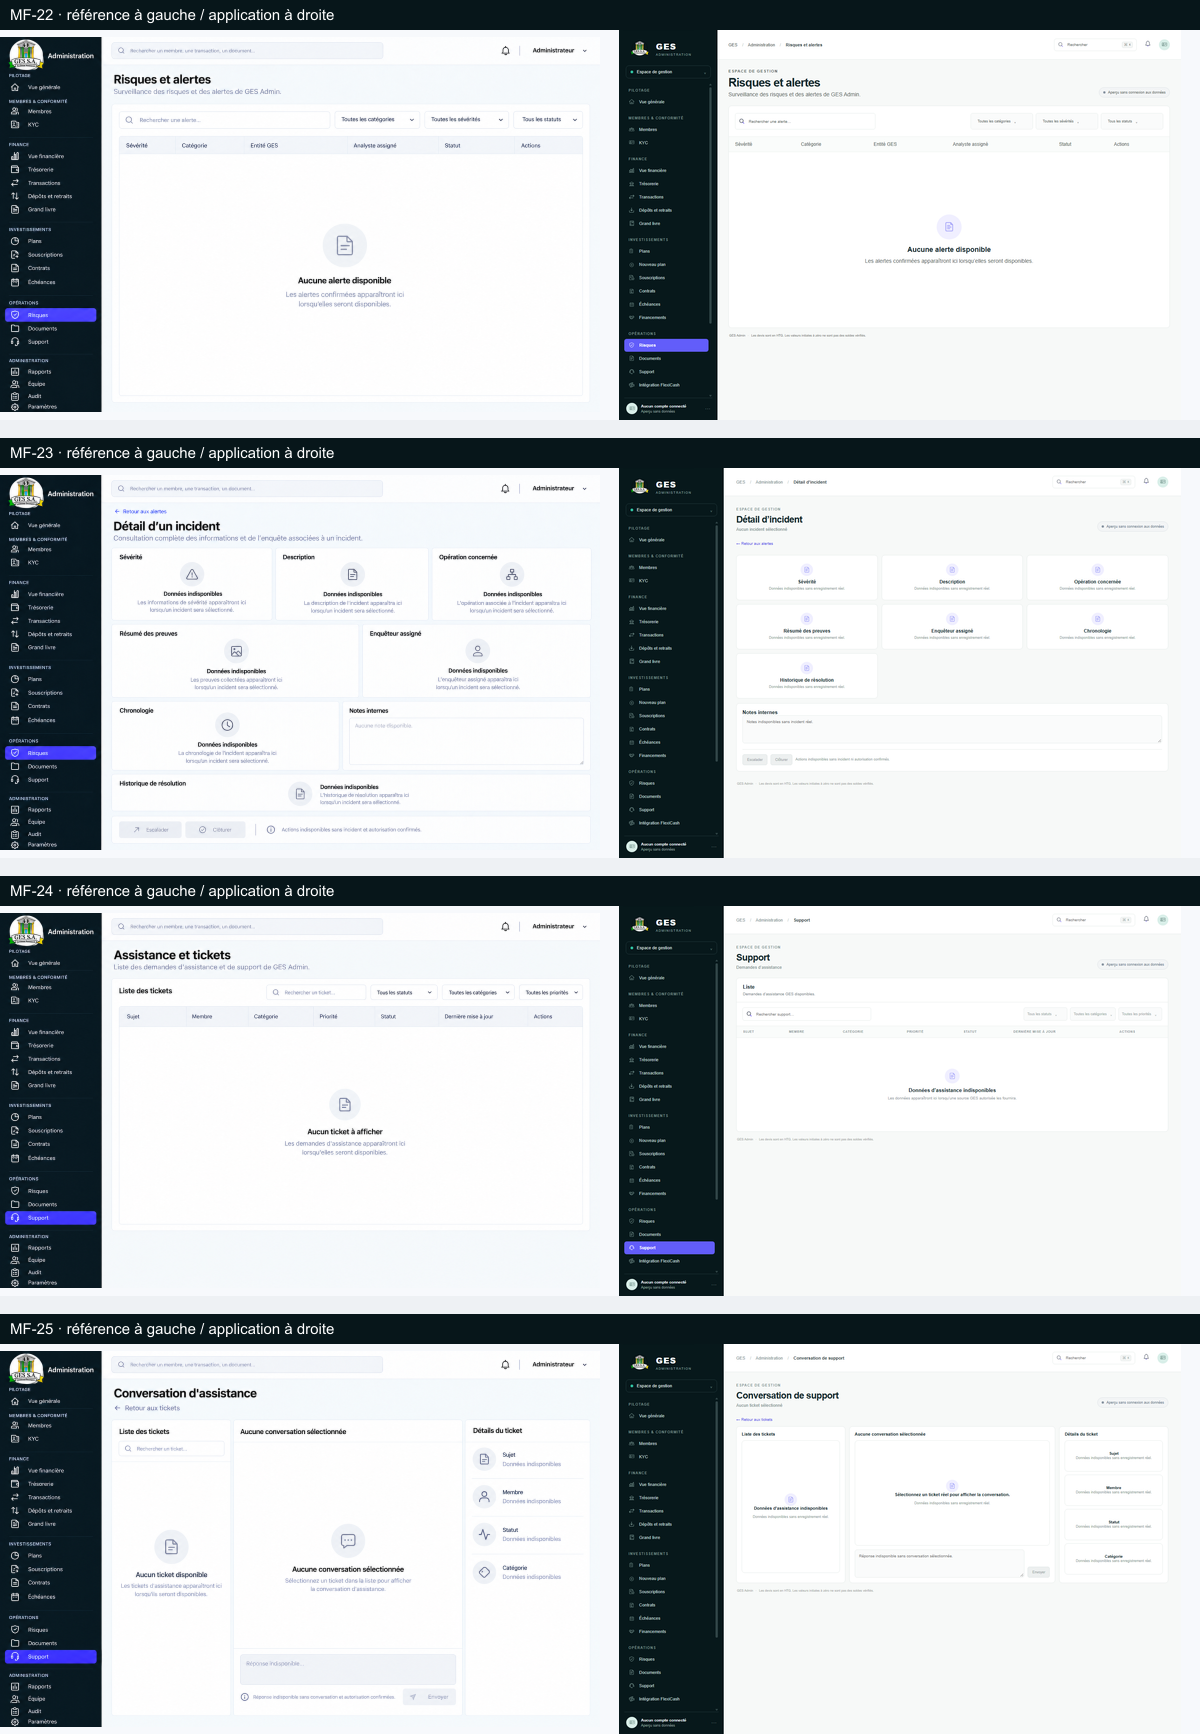
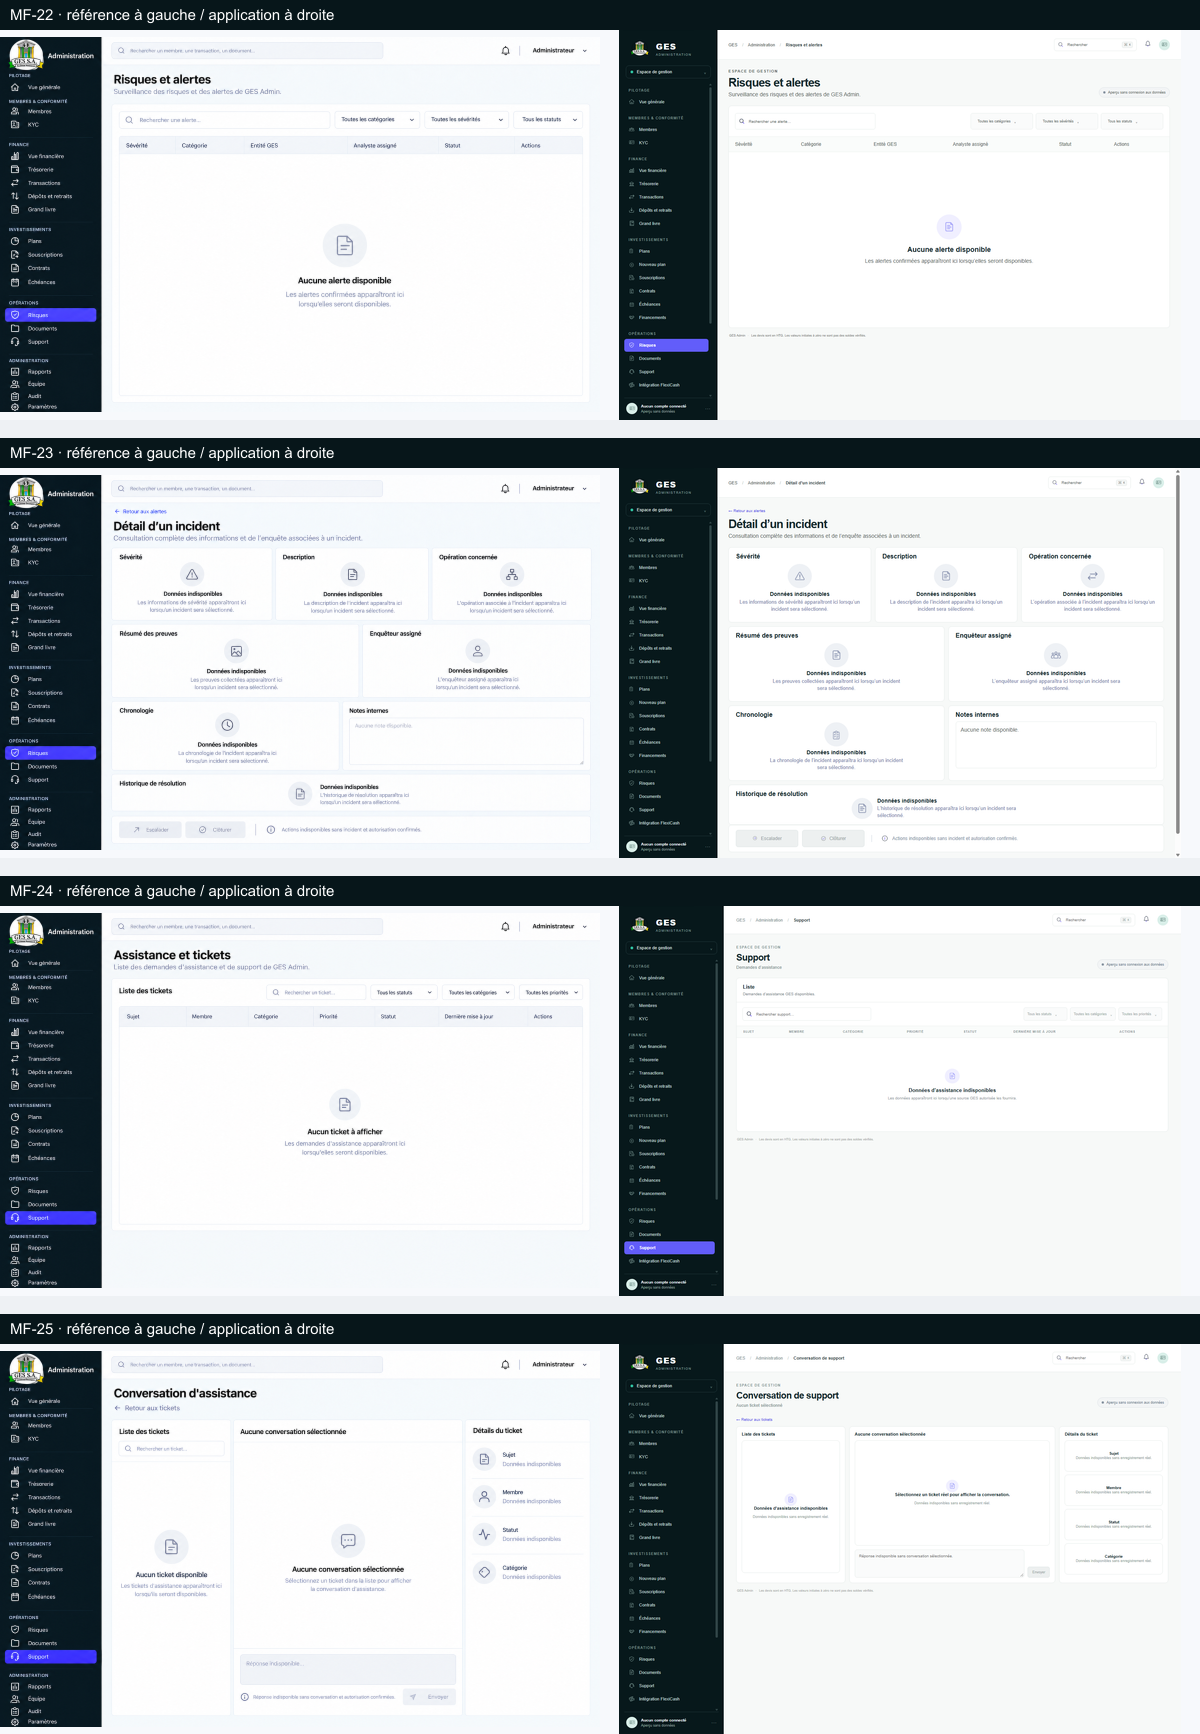
Align incident detail with MF-23

diff --git a/app/globals.css b/app/globals.css
@@ -67,3 +67,4 @@ a:focus-visible,button:focus-visible,input:focus-visible,select:focus-visible,te
 .distribution-value-card{min-height:102px;padding:15px 22px;display:flex;align-items:center;gap:16px;margin-bottom:12px}.distribution-value-icon{height:64px;width:64px;flex:0 0 64px;border-radius:50%;display:grid;place-items:center;background:#f0efff}.distribution-value-icon img{width:32px;height:32px;filter:brightness(0) saturate(100%) invert(35%) sepia(28%) saturate(2180%) hue-rotate(222deg) brightness(94%)}.distribution-value-card>div:nth-child(2){display:flex;flex-direction:column;gap:4px}.distribution-value-card>div:nth-child(2) span{color:#7c88ac;font-size:14px}.distribution-value-card>div:nth-child(2) strong{font:700 24px Manrope,Arial,sans-serif}.distribution-value-card>small{margin-left:auto;padding:7px 12px;border-radius:18px;background:#eef4ff;color:#2870d8;font-size:12px}.calendar-period-controls{display:flex;align-items:center}.calendar-period-controls button{min-height:34px;padding:6px 12px;border:1px solid var(--line);background:#fff;color:#778582;font-size:11px}.calendar-period-controls button:first-child{border-radius:6px 0 0 6px;font-size:18px}.calendar-period-controls button:last-child{border-radius:0 6px 6px 0;font-size:18px}.calendar-period-controls button:nth-child(2){min-width:185px}.calendar-empty{position:relative;padding:12px}.calendar-weekdays span{padding:11px 3px;font-size:11px}.calendar-blank-grid{grid-template-rows:repeat(5,40px);min-height:200px}.calendar-empty .module-empty{position:absolute;top:54px;left:12px;right:12px;bottom:12px;min-height:0;height:auto;background:transparent}.calendar-empty .module-empty-icon{width:64px;height:64px}.calendar-empty .module-empty-icon img{width:30px;height:30px}.calendar-empty .module-empty h2{font-size:16px}.calendar-empty .module-empty p{font-size:13px;max-width:480px}@media(max-width:700px){.distribution-value-card{padding:12px;gap:10px}.distribution-value-icon{width:52px;height:52px;flex-basis:52px}.distribution-value-card>div:nth-child(2) span{font-size:12px}.distribution-value-card>div:nth-child(2) strong{font-size:20px}.distribution-value-card>small{font-size:10px;padding:6px 8px}.calendar-period-controls button:nth-child(2){min-width:135px;padding:6px}.calendar-period-controls button{padding:6px 8px}.calendar-empty{padding:8px}.calendar-empty .module-empty{left:8px;right:8px;top:48px;bottom:8px}.calendar-weekdays span{font-size:9px;padding:8px 1px}.calendar-blank-grid{grid-template-rows:repeat(5,32px);min-height:160px}}
 .module-list-panel.no-list-search .module-empty{min-height:145px}.module-list-panel.no-list-search .module-toolbar{display:none}
 .calendar-panel{padding:8px}.calendar-panel .module-panel-header{padding:10px 14px}.calendar-panel .calendar-empty{padding-bottom:4px}
+.incident-detail-grid{display:grid;gap:10px;margin:10px 0}.incident-primary-grid{grid-template-columns:repeat(3,minmax(0,1fr))}.incident-secondary-grid,.incident-activity-grid{grid-template-columns:repeat(2,minmax(0,1fr))}.incident-card{min-width:0;min-height:188px;padding:14px 18px}.incident-card>h2,.incident-notes>h2,.incident-resolution>h2{font:700 16px Arial,Helvetica,sans-serif;margin:0}.incident-card-state{height:145px;display:flex;align-items:center;justify-content:center;flex-direction:column;text-align:center}.incident-card-state .detail-data-icon,.incident-resolution-state .detail-data-icon{height:62px;width:62px;margin-bottom:7px;background:#eef1f5}.incident-card-state .detail-data-icon img,.incident-resolution-state .detail-data-icon img{width:30px;height:30px;filter:brightness(0) saturate(100%) invert(40%) sepia(13%) saturate(1200%) hue-rotate(188deg) brightness(90%)}.incident-card-state strong,.incident-resolution-state strong{font-size:14px}.incident-card-state p,.incident-resolution-state p{max-width:350px;margin:4px 0 0;color:#7c88ac;font-size:13px;line-height:1.4}.incident-notes{min-height:188px;padding:14px 18px}.incident-notes textarea{width:100%;height:120px;margin-top:8px;resize:none;border:1px solid var(--line);border-radius:6px;padding:12px;color:#8792b0;font:14px Arial,Helvetica,sans-serif;background:#fff}.incident-notes textarea:disabled{opacity:1}.incident-resolution{min-height:96px;padding:14px 18px}.incident-resolution-state{display:flex;align-items:center;justify-content:center;gap:12px;min-height:55px}.incident-resolution-state .detail-data-icon{height:54px;width:54px;margin:0}.incident-resolution-state p{max-width:420px;margin-top:3px}.incident-actions{min-height:68px;padding:12px 18px;display:flex;align-items:center;gap:10px}.incident-actions button{min-width:160px;min-height:44px;display:flex;align-items:center;justify-content:center;gap:8px;border:1px solid #dfe6e6;border-radius:6px;background:#edf0f0;color:#9aa5a7;font-size:12px;cursor:not-allowed}.incident-actions button img{opacity:.5}.incident-actions-note{display:flex;align-items:center;gap:10px;margin-left:8px;padding-left:24px;border-left:1px solid #cbd4df;color:#8894a8;font-size:12px}.incident-actions-note img{opacity:.7}@media(max-width:900px){.incident-primary-grid{grid-template-columns:repeat(2,minmax(0,1fr))}.incident-primary-grid .incident-card:last-child{grid-column:1/-1}}@media(max-width:700px){.incident-primary-grid,.incident-secondary-grid,.incident-activity-grid{grid-template-columns:1fr}.incident-primary-grid .incident-card:last-child{grid-column:auto}.incident-actions{align-items:stretch;flex-direction:column}.incident-actions button{width:100%}.incident-actions-note{margin:0;padding:10px 0 0;border-left:0;border-top:1px solid #cbd4df}.incident-resolution-state{align-items:flex-start}.incident-card,.incident-notes{min-height:165px}.incident-card-state{height:125px}.incident-notes textarea{height:95px}}

diff --git a/components/admin-shell.tsx b/components/admin-shell.tsx
@@ -35,7 +35,7 @@ const detailPages: Record<string, { title: string; subtitle: string }> = {
   "transactions/dossier": { title: "Détail de transaction", subtitle: "Aucune transaction sélectionnée" },
   "souscriptions/dossier": { title: "Détail de la souscription", subtitle: "Informations détaillées sur la souscription sélectionnée dans GES Admin." },
   "contrats/dossier": { title: "Détail du contrat", subtitle: "Consultez les informations détaillées du contrat d’investissement." },
-  "risques/incident": { title: "Détail d’incident", subtitle: "Aucun incident sélectionné" },
+  "risques/incident": { title: "Détail d’un incident", subtitle: "Consultation complète des informations et de l’enquête associées à un incident." },
   "support/conversation": { title: "Conversation de support", subtitle: "Aucun ticket sélectionné" },
   "etats-interface": { title: "États de l’interface", subtitle: "Références visuelles des états partagés" },
 };
@@ -148,7 +148,7 @@ export function AdminShell({ section }: { section: string }) {
     </aside>
     {menuOpen && <button className="drawer-backdrop visible" type="button" aria-label="Fermer le menu" tabIndex={-1} onClick={closeMenu}/>}
     <main className="main-area" id="main-content" tabIndex={-1} inert={menuOpen}><header className="topbar"><button ref={menuButtonRef} className="mobile-menu-toggle" onClick={() => menuOpen ? closeMenu() : setMenuOpen(true)} aria-label={menuOpen ? "Fermer le menu" : "Ouvrir le menu"} aria-expanded={menuOpen} aria-controls="primary-navigation">{menuOpen ? <Image src="/assets/icons/close.webp" alt="" width={19} height={19}/> : <span className="menu-bars" aria-hidden="true"/>}</button><div className="breadcrumb">GES <span>/</span> Administration <span>/</span> <b>{page.title}</b></div><div className="top-actions"><label className="search"><Image src="/assets/icons/search.webp" alt="" width={15} height={15}/><input placeholder="Rechercher" aria-label="Rechercher" value={searchQuery} onChange={(event) => setSearchQuery(event.target.value)}/><kbd>⌘ K</kbd></label><Link href="/admin/notifications" className="bell" aria-label="Notifications"><Image src="/assets/icons/notification.webp" alt="" width={19} height={19}/></Link><div className="top-avatar"><Image src="/assets/icons/identity.webp" alt="" width={16} height={16}/></div></div></header>
-      <div className={`content ${key === "plans/nouveau" ? "plan-content" : ""}`}>{key === "souscriptions/dossier" && <Link className="detail-back" href="/admin/souscriptions">← Retour aux souscriptions</Link>}{key === "contrats/dossier" && <Link className="detail-back" href="/admin/contrats">← Retour aux contrats</Link>}<div className="page-heading"><div>{key !== "transactions" && key !== "souscriptions/dossier" && key !== "contrats/dossier" && <div className="eyebrow">ESPACE DE GESTION</div>}<h1>{page.title}</h1><p>{page.subtitle}</p></div><div className="heading-actions">{key !== "souscriptions/dossier" && key !== "contrats/dossier" && <span className="status-pill preview-pill"><i/> Aperçu sans connexion aux données</span>}</div></div>
+      <div className={`content ${key === "plans/nouveau" ? "plan-content" : ""}`}>{key === "souscriptions/dossier" && <Link className="detail-back" href="/admin/souscriptions">← Retour aux souscriptions</Link>}{key === "contrats/dossier" && <Link className="detail-back" href="/admin/contrats">← Retour aux contrats</Link>}{key === "risques/incident" && <Link className="detail-back" href="/admin/risques">← Retour aux alertes</Link>}<div className="page-heading"><div>{key !== "transactions" && key !== "souscriptions/dossier" && key !== "contrats/dossier" && key !== "risques/incident" && <div className="eyebrow">ESPACE DE GESTION</div>}<h1>{page.title}</h1><p>{page.subtitle}</p></div><div className="heading-actions">{key !== "souscriptions/dossier" && key !== "contrats/dossier" && key !== "risques/incident" && <span className="status-pill preview-pill"><i/> Aperçu sans connexion aux données</span>}</div></div>
       {key === "notifications" ? <NotificationsWorkspace query={searchQuery} onQueryChange={setSearchQuery}/> : key === "plans/nouveau" ? <><Link href="/admin/plans" className="plan-back">← Retour aux plans</Link><PlanForm/></> : overview ? <>{financial && <div className="module-notice">Valeurs initiales — les montants affichés sont à confirmer et ne constituent pas des soldes vérifiés.</div>}<div className={`metric-grid ${financial ? "financial-metrics" : ""}`}>{metrics.map(([label,value,caption])=><MetricCard key={label} label={label} value={value} caption={caption}/>)}</div>
       {financial && <UsdUnavailable/>}
       <div className={`overview-grid ${financial ? "financial-overview-grid" : "command-overview-grid"}`}><section className="panel"><div className="panel-head"><div><h2>{financial ? "Tendance de trésorerie" : "Tendance financière"}</h2></div>{financial && <button className="select-button" disabled title="Les données sont indisponibles">Période⌄</button>}</div><div className="chart-empty"><div className="chart-lines"><span/><span/><span/><span/></div><div className="chart-message">Aucune donnée disponible</div></div></section><section className="panel breakdown"><div className="panel-head"><div><h2>{financial ? "Obligations à venir" : "Répartition des investissements"}</h2></div>{financial && <button className="dots" disabled aria-label="Options indisponibles">···</button>}</div>{financial ? <div className="donut-wrap"><p>Aucune donnée disponible</p></div> : <div className="donut-wrap"><div className="donut"><div/></div><p>Aucune donnée disponible</p></div>}</section></div>

diff --git a/components/detail-workspace.tsx b/components/detail-workspace.tsx
@@ -57,15 +57,28 @@ export function DetailWorkspace({ sectionKey }: { sectionKey: string }) {
     <section className="panel contract-events-card"><h2>Événements du contrat</h2><div className="contract-event-state"><div className="detail-data-icon"><Image src="/assets/icons/ledger.webp" alt="" width={30} height={30}/></div><div><strong>Données indisponibles</strong><p>Les événements du contrat seront affichés ici lorsqu’un contrat sera sélectionné.</p></div></div></section>
   </>;
   if (sectionKey === "risques/incident") return <>
-    <BackLink href="/admin/risques" label="Retour aux alertes"/>
-    <div className="module-detail-grid">{["Sévérité", "Description", "Opération concernée", "Résumé des preuves", "Enquêteur assigné", "Chronologie", "Historique de résolution"].map((title) => <Unavailable key={title} title={title}/>)}</div>
-    <section className="panel module-subpanel"><h2>Notes internes</h2><textarea disabled placeholder="Notes indisponibles sans incident réel."/><div className="detail-actions"><button disabled>Escalader</button><button disabled>Clôturer</button><span>Actions indisponibles sans incident ni autorisation confirmés.</span></div></section>
+    <div className="incident-detail-grid incident-primary-grid">{[
+      ["Sévérité", "warning", "Les informations de sévérité apparaîtront ici lorsqu’un incident sera sélectionné."],
+      ["Description", "document", "La description de l’incident apparaîtra ici lorsqu’un incident sera sélectionné."],
+      ["Opération concernée", "transactions", "L’opération associée à l’incident apparaîtra ici lorsqu’un incident sera sélectionné."],
+    ].map(([title, icon, description]) => <IncidentCard key={title} title={title} icon={icon} description={description}/>)}</div>
+    <div className="incident-detail-grid incident-secondary-grid">{[
+      ["Résumé des preuves", "document", "Les preuves collectées apparaîtront ici lorsqu’un incident sera sélectionné."],
+      ["Enquêteur assigné", "members", "L’enquêteur assigné apparaîtra ici lorsqu’un incident sera sélectionné."],
+    ].map(([title, icon, description]) => <IncidentCard key={title} title={title} icon={icon} description={description}/>)}</div>
+    <div className="incident-detail-grid incident-activity-grid"><IncidentCard title="Chronologie" icon="audit" description="La chronologie de l’incident apparaîtra ici lorsqu’un incident sera sélectionné."/><section className="panel incident-notes"><h2>Notes internes</h2><textarea disabled placeholder="Aucune note disponible."/></section></div>
+    <section className="panel incident-resolution"><h2>Historique de résolution</h2><div className="incident-resolution-state"><div className="detail-data-icon"><Image src="/assets/icons/document.webp" alt="" width={24} height={24}/></div><div><strong>Données indisponibles</strong><p>L’historique de résolution apparaîtra ici lorsqu’un incident sera sélectionné.</p></div></div></section>
+    <section className="panel incident-actions"><button disabled><Image src="/assets/icons/next.webp" alt="" width={14} height={14}/> Escalader</button><button disabled><Image src="/assets/icons/success.webp" alt="" width={14} height={14}/> Clôturer</button><span className="incident-actions-note"><Image src="/assets/icons/info.webp" alt="" width={18} height={18}/>Actions indisponibles sans incident et autorisation confirmés.</span></section>
   </>;
   if (sectionKey === "support/conversation") return <>
     <BackLink href="/admin/support" label="Retour aux tickets"/>
     <div className="support-workspace"><section className="panel support-list"><h2>Liste des tickets</h2><Unavailable title="Données d’assistance indisponibles"/></section><section className="panel support-thread"><h2>Aucune conversation sélectionnée</h2><Unavailable title="Sélectionnez un ticket réel pour afficher la conversation."/><div className="support-composer"><textarea disabled placeholder="Réponse indisponible sans conversation sélectionnée."/><button disabled>Envoyer</button></div></section><section className="panel support-details"><h2>Détails du ticket</h2>{["Sujet", "Membre", "Statut", "Catégorie"].map((title) => <Unavailable key={title} title={title}/>)}</section></div>
   </>;
   return <Unavailable title="Aucune donnée de dossier disponible"/>;
+}
+
+function IncidentCard({ title, icon, description }: { title: string; icon: string; description: string }) {
+  return <section className="panel incident-card"><h2>{title}</h2><div className="incident-card-state"><div className="detail-data-icon"><Image src={`/assets/icons/${icon}.webp`} alt="" width={30} height={30}/></div><strong>Données indisponibles</strong><p>{description}</p></div></section>;
 }
 
 function InitialBalance({ label }: { label: string }) {

diff --git a/design/project-status.md b/design/project-status.md
@@ -63,3 +63,5 @@ Revue MF-20 (29 octobre 2026) : calendrier sans jour numerote ni date fictive, c
 Revue MF-21 (29 octobre 2026) : titre/sous-titre, recherche, filtres et colonnes aligns sur la reference corrigee v2; Financements reste l'item actif. Liste vide sans projet, personne, somme, risque ni statut fictif; le montant propose est libelle HTG. Captures desktop/mobile confirment l'etat vide et aucune largeur de page superieure au viewport (1440/390 px).
 
 Revue MF-22 (29 octobre 2026) : titre/sous-titre, recherche, filtres et colonnes alignes sur la reference. Aucun incident inexistant, alerte, severite, entite ni analyste inventes; le filtre est neutre. Captures desktop/mobile confirment l'etat vide et aucune largeur de page superieure au viewport (1440/390 px).
+
+Revue MF-23 (29 octobre 2026) : retour avant titre, huit panneaux sur severite, description, operation, preuves, enqueteur, chronologie, notes et resolution. Actions escalader/cloturer desactivees; aucun contenu d'incident, date, preuve ou personne fictif. Captures desktop/mobile confirment l'etat indisponible et aucune largeur de page superieure au viewport (1440/390 px).

diff --git a/design/qa/README.md b/design/qa/README.md
@@ -161,3 +161,5 @@ Le controle hasUnavailableState de capture-route.cjs reconnait aussi les libelle
 Captures MF-21 : admin-financements-1440x1000.png et admin-financements-390x844.png. Recherche et filtres restent neutres; aucun dossier de financement fictif. Montant propose identifie en HTG.
 
 Captures MF-22 : admin-risques-1440x1000.png et admin-risques-390x844.png. Aucun risque ou analyste fictif; les filtres restent desactives sans source autorisee.
+
+Captures MF-23 : admin-risques-incident-1440x1000.png et admin-risques-incident-390x844.png. Les donnees d'incident restent indisponibles; notes, escalade et cloture ne permettent aucune saisie ou action sans dossier reel.
